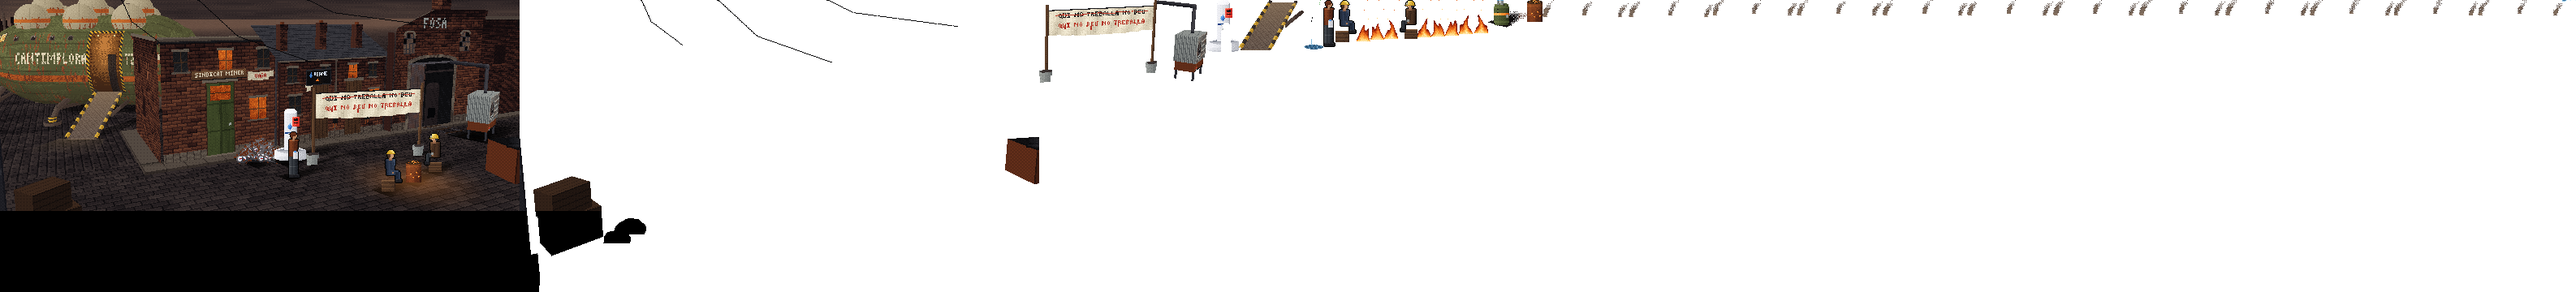
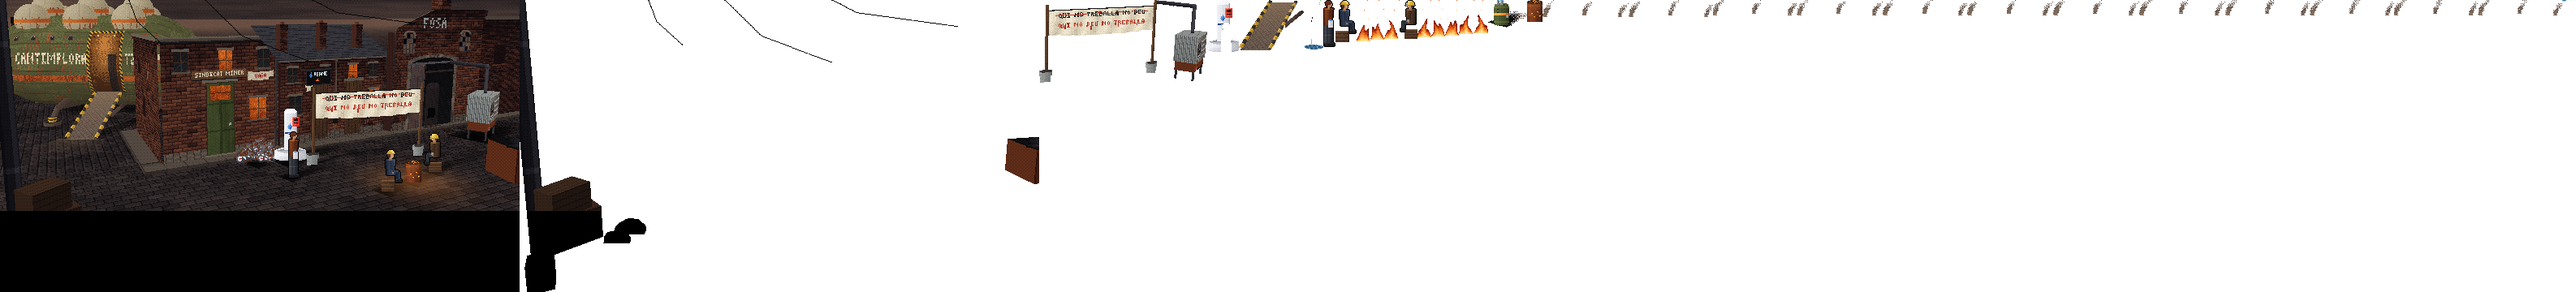
Aigua Verne: el fanal del carrer de Ferrum, una mica més endins

Changed region(s): [[0.1872, 0.0917, 0.2184, 1.0], [0.0, 0.1222, 0.0312, 0.3361], [0.0, 0.55, 0.0312, 0.7028]]

diff --git a/games/aigua-verne/adapters/benne/tools/hd640/rooms/ferrum_carrer.py b/games/aigua-verne/adapters/benne/tools/hd640/rooms/ferrum_carrer.py
@@ -70,7 +70,7 @@ PANC = ((X0 + 186, ZR - 92), (X0 + 346, ZR - 126))  # els dos pals de la pancart
 FONT = (X0 + 168, ZR - 62)
 COMPT = (X0 + 132, ZR - 40)
 COND = (FX0 + 120, ZR - 96, 0.42)                  # (x, z, gir)
-FANAL = (-45.0, 340.0)                            # (a la vora: deixa veure la porta de la nau)
+FANAL = (-34.0, 340.0)                            # (a la vora: deixa veure la porta de la nau)
 VAGO = (500.0, 300.0)
 BARRIL = (X0 + 360, ZR - 200)
 
